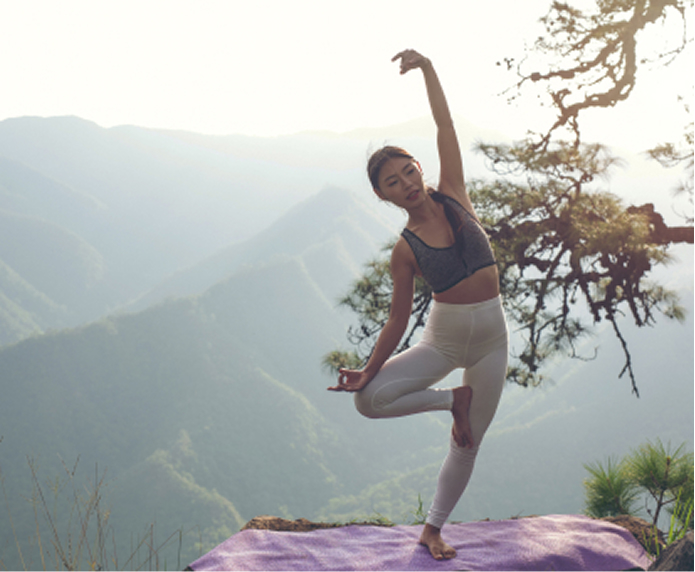
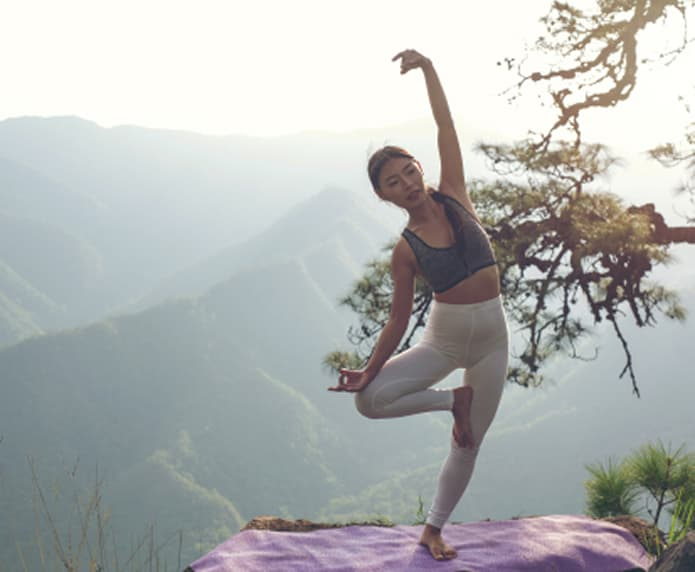
Create section FAQ

diff --git a/index.html b/index.html
@@ -17,7 +17,7 @@
     <!-- Fonts -->
     <link rel="stylesheet" href="css/font-awesome.min.css" />
     <!-- Magnific-popup -->
-    <link rel="stylesheet" href="./css/magnific-popup.min.css">
+    <link rel="stylesheet" href="./css/magnific-popup.min.css" />
     <!-- Styles -->
     <link rel="stylesheet" href="css/main.css" />
   </head>
@@ -621,6 +621,103 @@
           </div>
           <div class="gallery-btn">
             <a class="button" href="gallery.html">Смотреть все</a>
+          </div>
+        </div>
+      </section>
+      <!-- FAQ -->
+      <section class="faq-wrap p-100">
+        <div class="container">
+          <div class="title-column">
+            <span class="title-icon">
+              <img src="./images/about/title-icon.svg" alt="Логотип" />
+            </span>
+            <h2 class="title-text">Часто задаваемые вопросы</h2>
+            <div class="title-desc">
+              FAQ для легкости и ясности вашего йогического <br />
+              опыта в студии Виньяса.
+            </div>
+          </div>
+          <div class="faq-group">
+            <!-- Item #1 -->
+            <div class="faq-item">
+              <div class="faq-question">
+                Могу ли я прийти на занятия вечером?
+              </div>
+              <div class="faq-answer">
+                <p>
+                  Да, вы можете прийти на занятия вечером. По вечерам мы
+                  предлагаем занятия хатха-йогой, аштанга-йогой и медитацией.
+                  Приходите, мы будем рады вас видеть.
+                </p>
+              </div>
+            </div>
+            <!-- Item #2 -->
+            <div class="faq-item">
+              <div class="faq-question">
+                Как выбрать подходящий класс для своего уровня подготовки?
+              </div>
+              <div class="faq-answer">
+                <p>
+                  Оцените свои знания и опыт, выбирайте класс с соответствующим
+                  уровнем сложности. Начните с базового, постепенно переходите к
+                  более продвинутым, учитывайте свои цели и интересы.
+                </p>
+              </div>
+            </div>
+            <!-- Item #3 -->
+            <div class="faq-item">
+              <div class="faq-question">Что нужно надеть на занятия йогой?</div>
+              <div class="faq-answer">
+                <p>
+                  Выберите удобную одежду, обеспечивающую свободу движений.
+                  Предпочтительны растяжимые ткани. Обувь не требуется, но
+                  носите чистые носки.
+                </p>
+              </div>
+            </div>
+            <!-- Item #4 -->
+            <div class="faq-item">
+              <div class="faq-question">
+                Как долго видны результаты от практики йоги?
+              </div>
+              <div class="faq-answer">
+                <p>
+                  Видимые результаты от практики йоги могут появиться через
+                  несколько недель. Однако улучшение гибкости, силы и
+                  психического благополучия может потребовать нескольких месяцев
+                  регулярных занятий.
+                </p>
+              </div>
+            </div>
+            <!-- Item #5 -->
+            <div class="faq-item">
+              <div class="faq-question">
+                Могу ли я заниматься йогой, если у меня есть травмы или
+                ограничения?
+              </div>
+              <div class="faq-answer">
+                <p>
+                  Да, но с осторожностью. Перед началом занятий йогой
+                  проконсультируйтесь с врачом, особенно при наличии травм или
+                  ограничений. Выбирайте подходящий стиль йоги и сообщите
+                  инструктору о своих ограничениях, чтобы адаптировать практику.
+                </p>
+              </div>
+            </div>
+            <!-- Item #6 -->
+            <div class="faq-item">
+              <div class="faq-question">
+                Какие преимущества приносит медитация в рамках занятий йогой?
+              </div>
+              <div class="faq-answer">
+                <p>
+                  Медитация в рамках йоги способствует улучшению концентрации,
+                  снижению стресса, укреплению эмоционального благополучия и
+                  повышению осознанности. Это также способствует уравновешиванию
+                  ума и улучшению общего физического и психического здоровья.
+                </p>
+              </div>
+            </div>
           </div>
         </div>
       </section>

diff --git a/css/main.css b/css/main.css
@@ -358,3 +358,46 @@
 }
 
 /* Gallery END */
+
+/* FAQ START */
+.faq-group {
+  max-width: 900px;
+  margin: 0 auto;
+}
+.faq-question {
+  position: relative;
+  background-color: #dee5fe;
+  border-radius: 5px;
+  padding: 20px 50px 20px 30px;
+  font-weight: 500;
+  font-size: 22px;
+  line-height: 1.6;
+  margin-bottom: 20px;
+  cursor: pointer;
+}
+.faq-question::after {
+  content: url('../images/faq/plus.svg');
+  position: absolute;
+  top: 20px;
+  right: 30px;
+  width: 32px;
+  height: 32px;
+  transition: 0.5s ease;
+}
+.faq-question.is-active::after {
+  transform: rotate(45deg);
+}
+.faq-answer {
+  display: none;
+  background-color: #eee;
+  padding: 20px 130px 20px 30px;
+  font-size: 22px;
+  line-height: 1.6;
+  border-radius: 5px;
+  color: #5a5757;
+  margin-bottom: 20px;
+}
+.faq-answer p {
+  margin-bottom: 0;
+}
+/* FAQ END */

diff --git a/js/script.js b/js/script.js
@@ -45,6 +45,19 @@ document.addEventListener(
       },
     });
     // Gallery END
+
+    // FAQ START
+    $('.faq-question').on('click', function() {
+      var answer = $(this).next('.faq-answer ');
+      if($(this).hasClass('is-active')) {
+        answer.slideUp();
+        $(this).removeClass('is-active')
+      } else {
+        answer.slideDown();
+        $(this).addClass('is-active')
+      }
+    });
+    // FAQ END
   },
   false,
 );